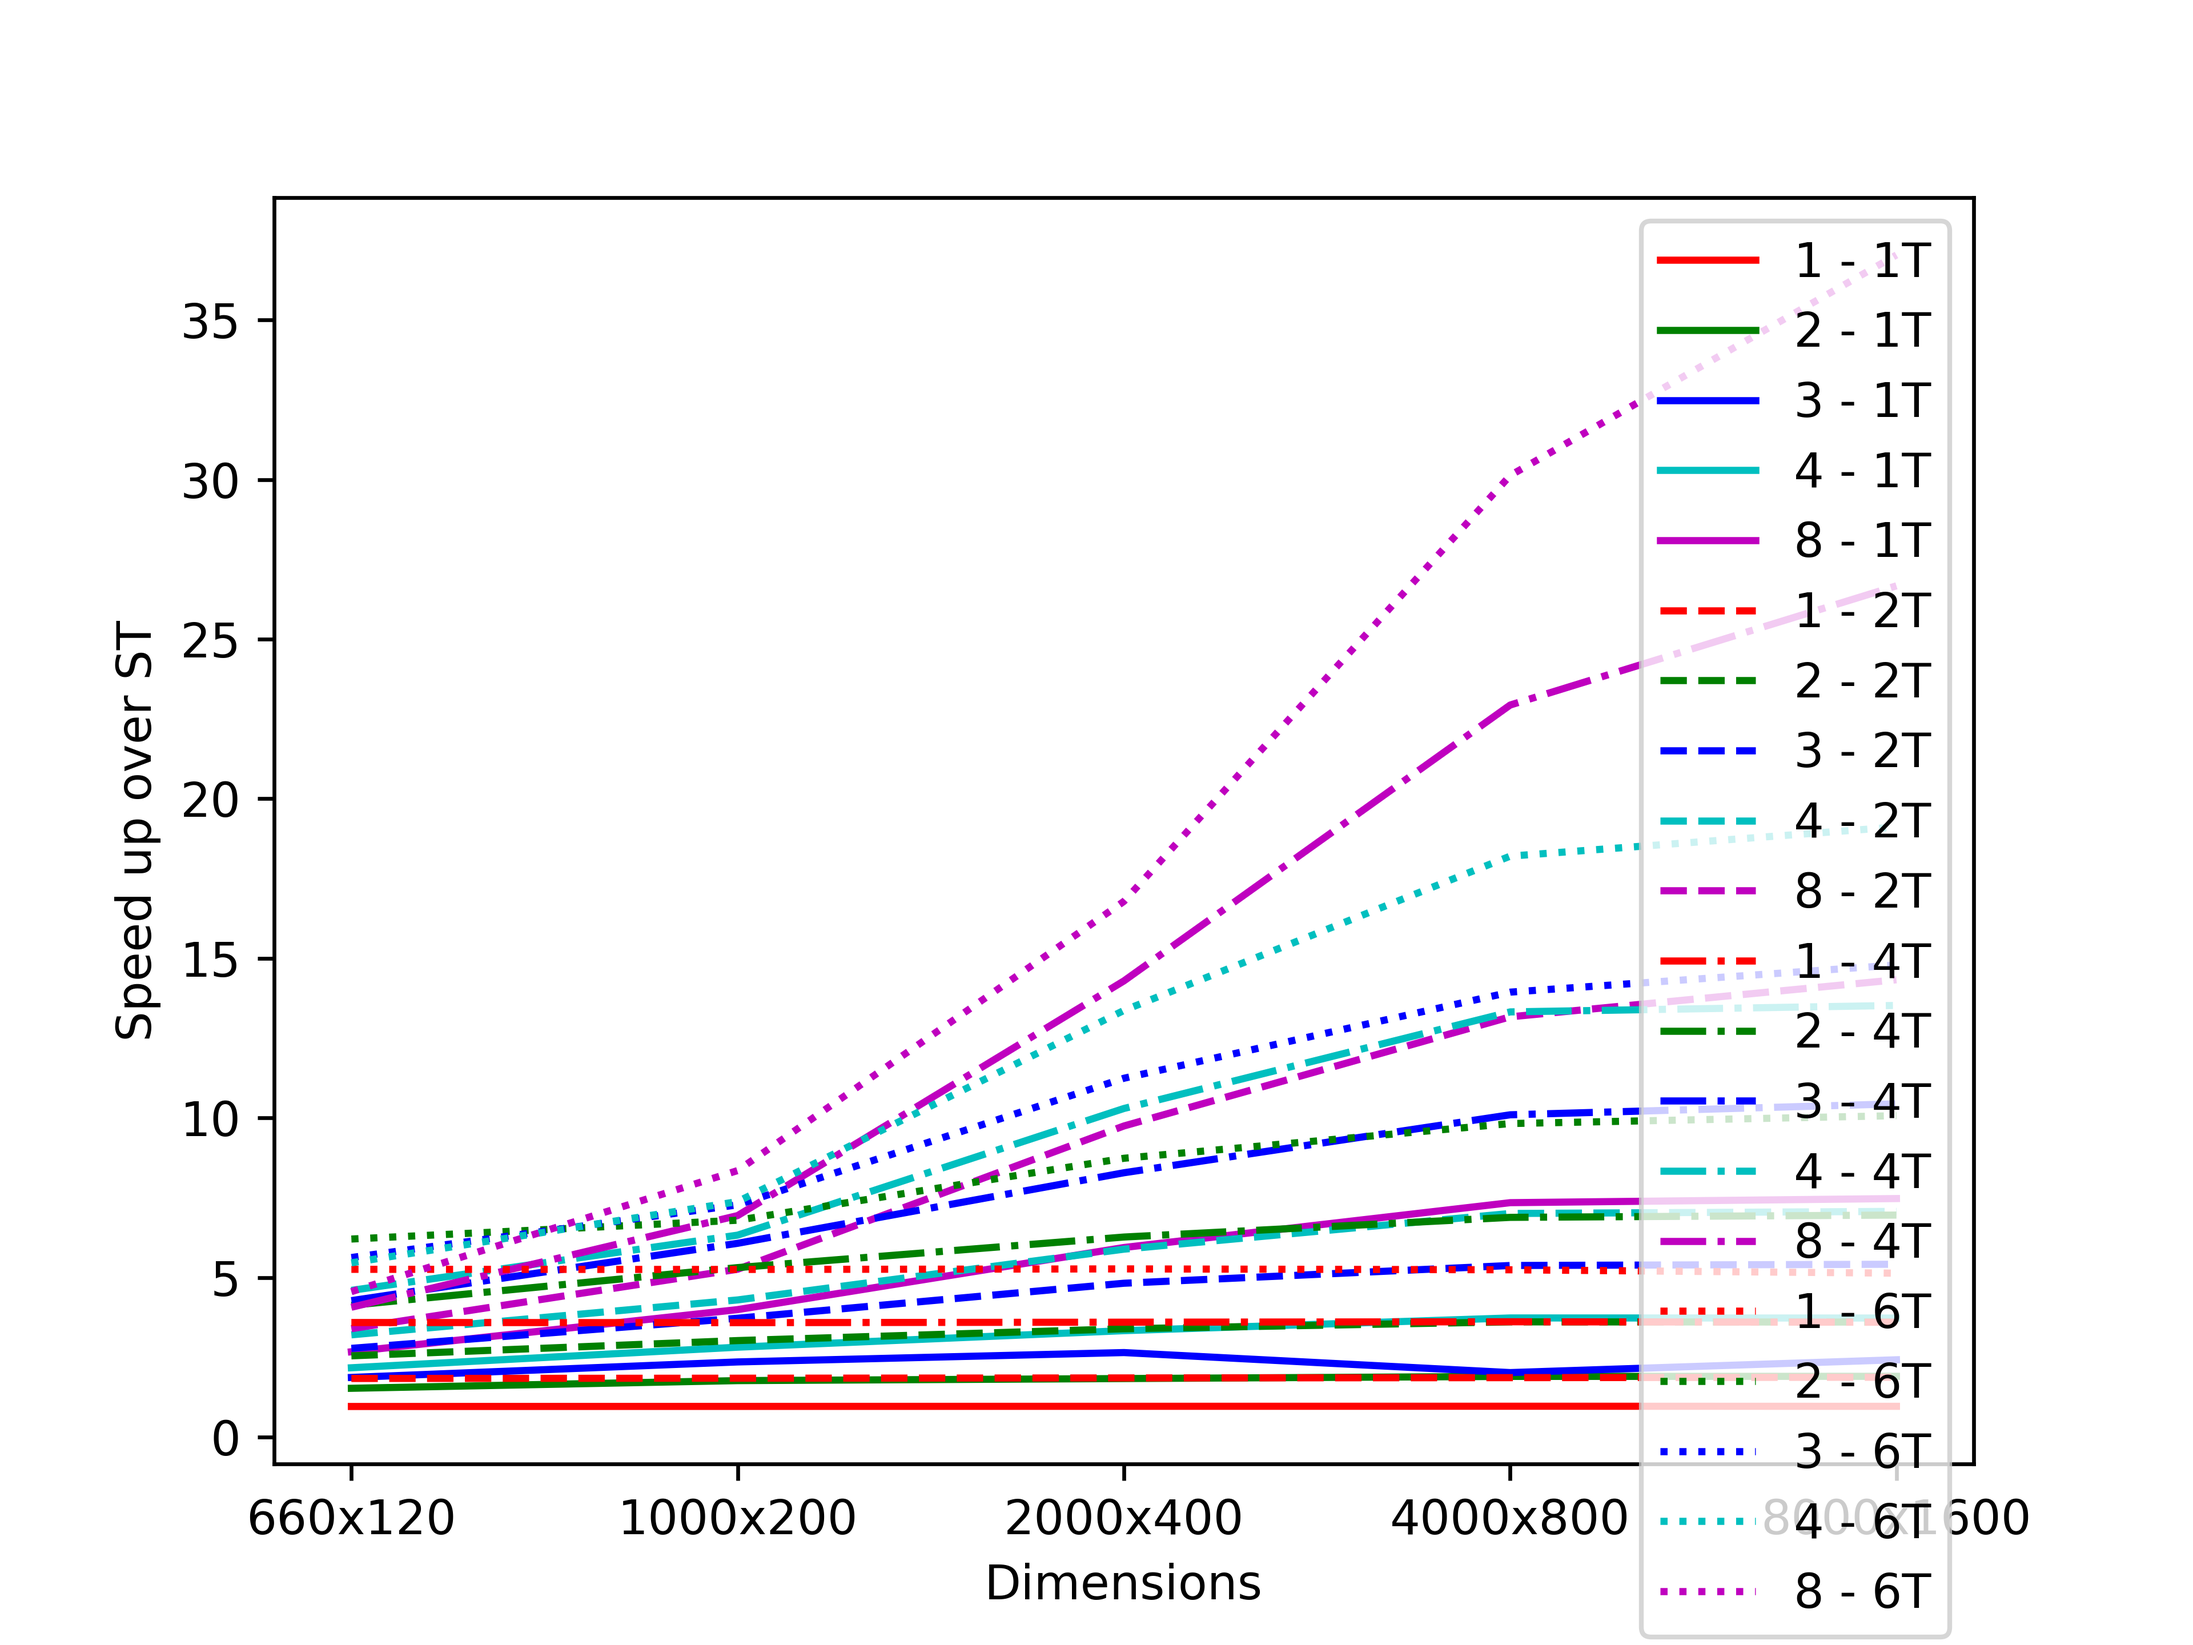
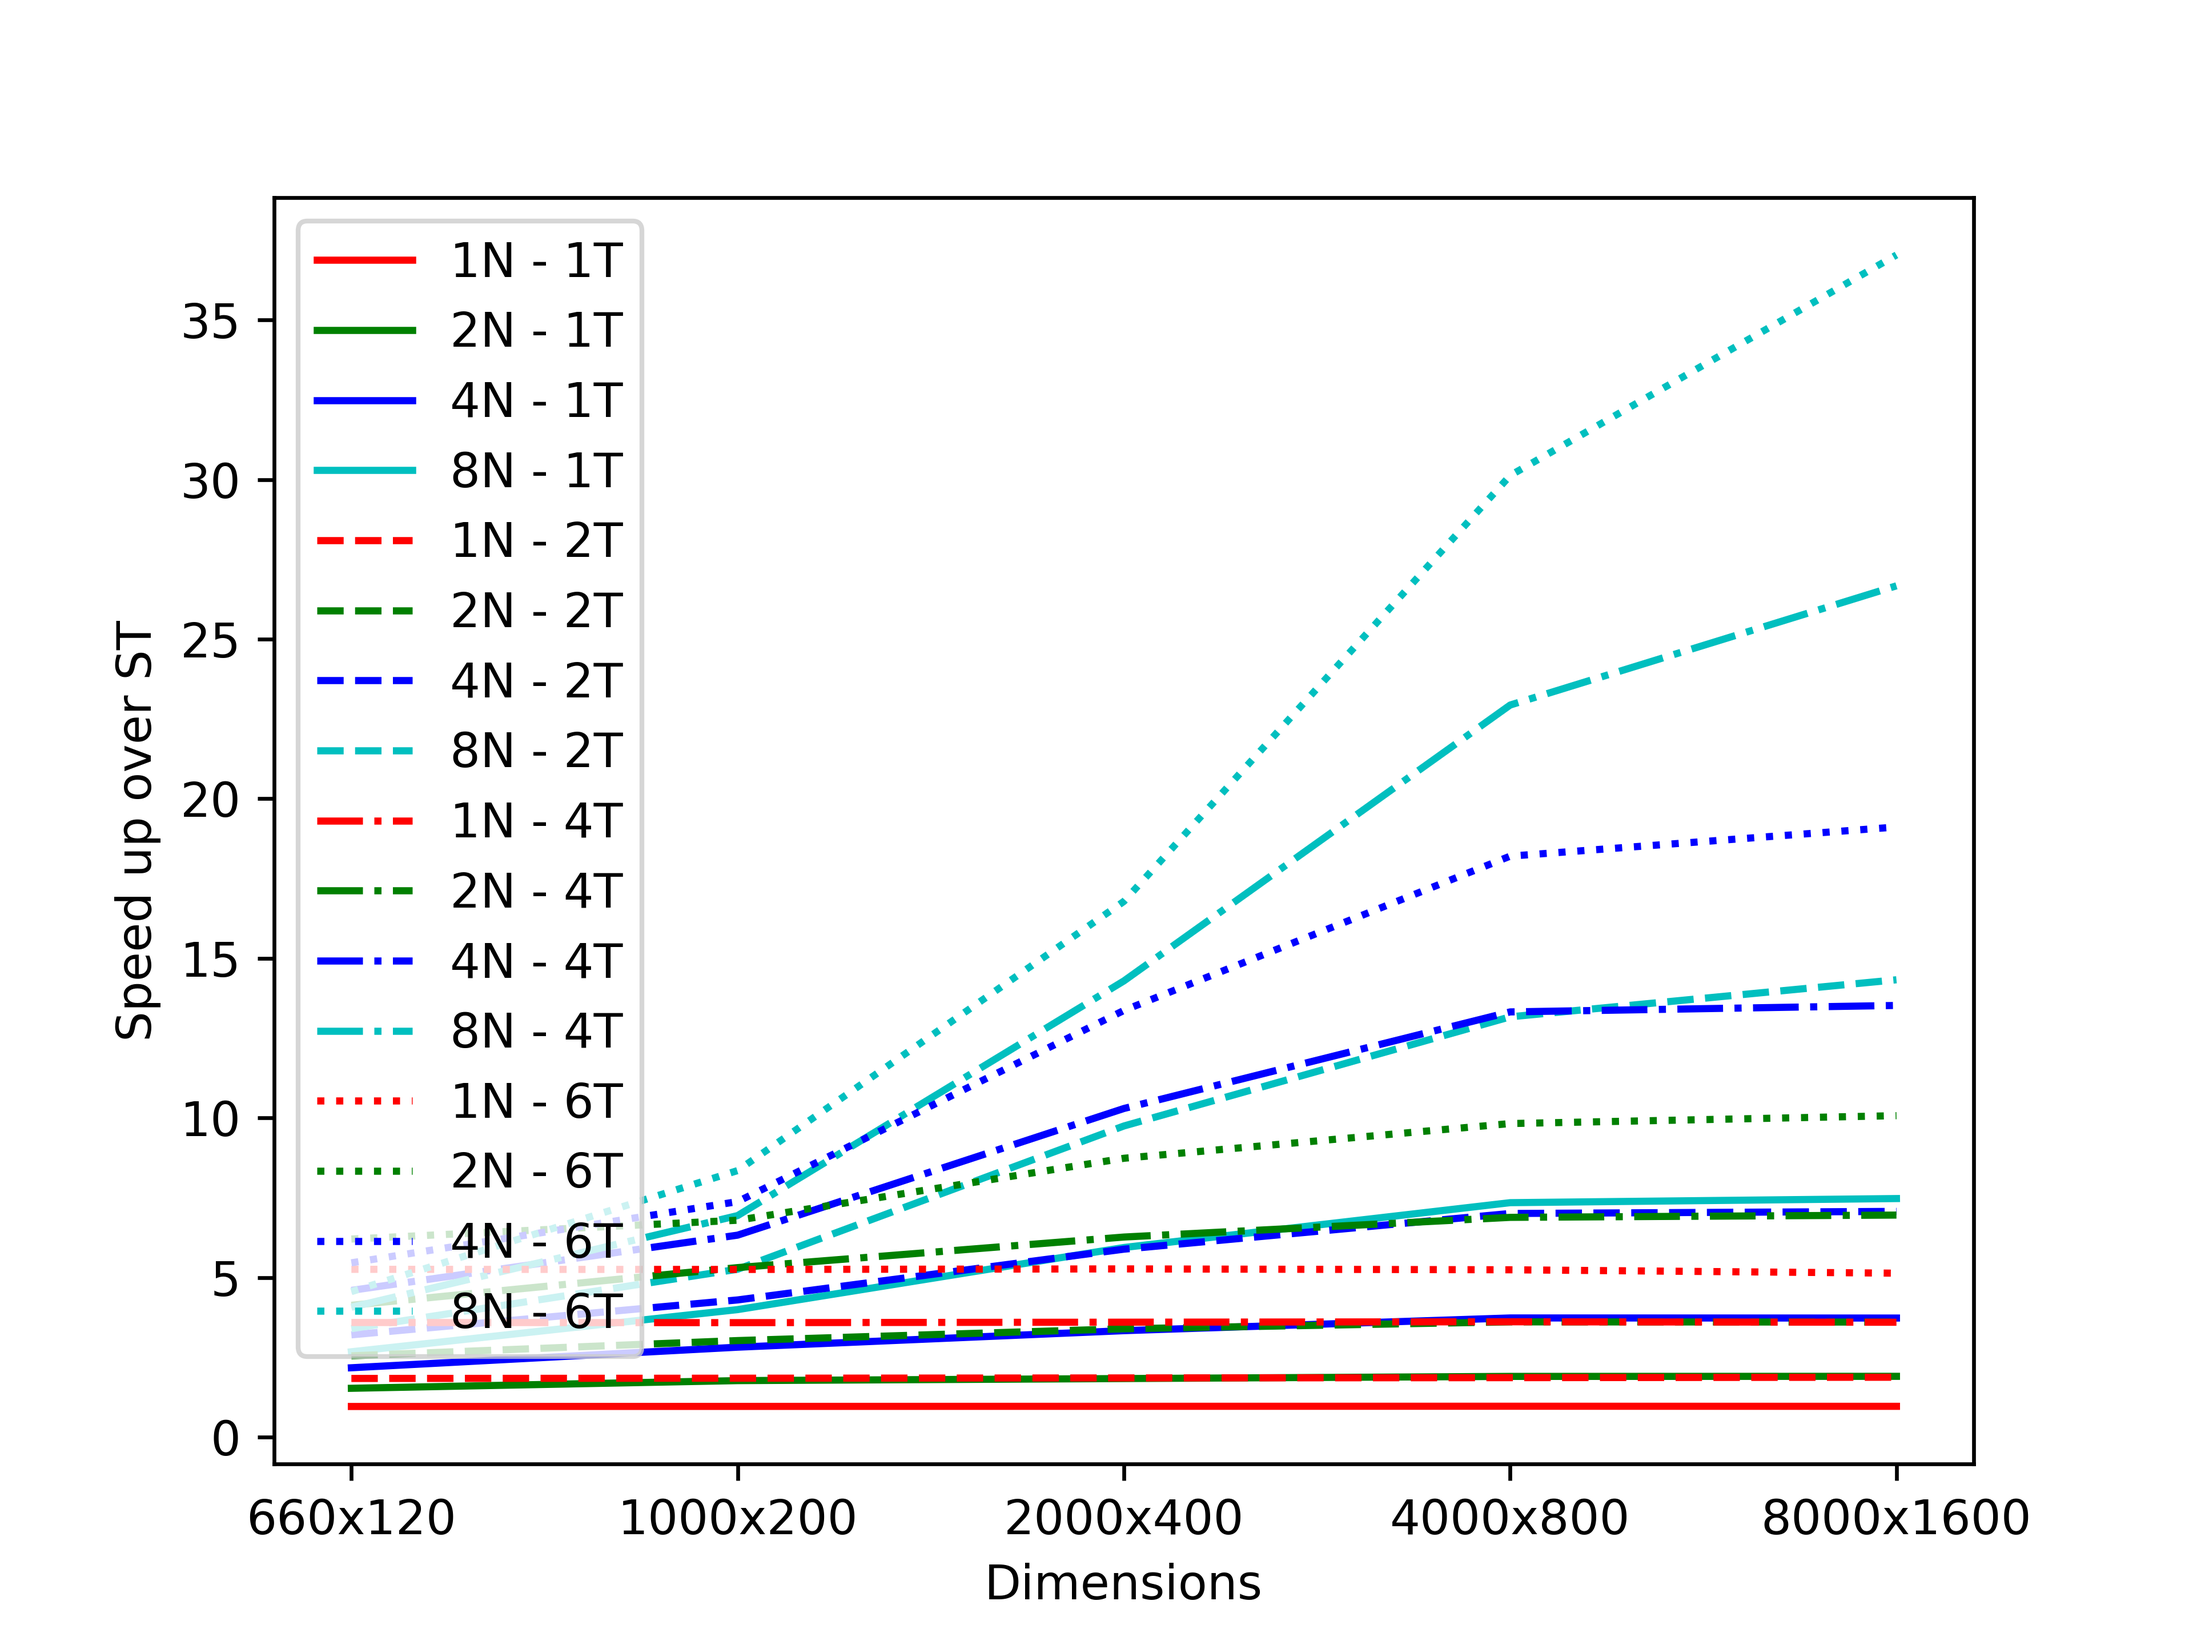
More plots

diff --git a/cfd/analysis.py b/cfd/analysis.py
@@ -12,6 +12,10 @@ pd.set_option('display.max_rows', None)
 dimensions = [(660, 120), (1000, 200), (2000, 400), (4000, 800), (8000, 1600)]
 sim_times = [0.5, 0.2, 0.05, 0.01, 0.004]
 omp_num_threads_tested = [1, 2, 3, 4, 5, 6]
+sbatch_nodes_tested = [1, 2, 3, 4, 8]
+
+omp_num_threads_plot = [1, 2, 4, 6]
+sbatch_nodes_plot = [1, 2, 4, 8]
 
 def get_time_from_timing_line(line):
     string_time = line.split(" ")[3]
@@ -160,7 +164,7 @@ def collect_data():
             st_runner.save_sbatch()
             runners.append(st_runner)
 
-        for sbatch_nodes in [1, 2, 3, 4, 8]:
+        for sbatch_nodes in sbatch_nodes_tested:
             for omp_num_threads in omp_num_threads_tested:
                 csv_path = os.path.join("timing_data", f"{x}-{y}-{sbatch_nodes}-{omp_num_threads}.csv")
                 if os.path.exists(csv_path):
@@ -214,6 +218,10 @@ def plot_graphs():
     plot_time_against_thread_count(all_df)
     plot_speed_up_against_thread_count(all_df)
     plot_speed_up_against_dimensions(all_df)
+    plot_speed_up_against_sbatch_nodes(all_df)
+    plot_parallel_efficiency_against_thread_count(all_df)
+    plot_parallel_efficiency_against_sbatch_nodes(all_df)
+    plot_parallel_efficiency_against_dimensions(all_df)
 
 def plot_time_against_thread_count(all_df):
     df = all_df.groupby(["sbatch_nodes", "omp_threads", "x", "y"], as_index=False).mean()
@@ -225,7 +233,7 @@ def plot_time_against_thread_count(all_df):
     for (x, y), line_style in zip(dimensions, line_styles):
         dim_df = df_par[df_par["x"] == x]
         dim_df = dim_df[dim_df["y"] == y]
-        for sbatch_nodes, colour in zip(dim_df["sbatch_nodes"].unique(), colours):
+        for sbatch_nodes, colour in zip(sbatch_nodes_plot, colours):
             node_df = dim_df[dim_df["sbatch_nodes"] == sbatch_nodes]
             plt.plot(node_df["omp_threads"], node_df["loop_time_taken"], colour + line_style, label=f"{sbatch_nodes} - {x}x{y}")
 
@@ -250,7 +258,7 @@ def plot_speed_up_against_thread_count(all_df):
         print(st_time_taken)
         dim_df = df_par[df_par["x"] == x]
         dim_df = dim_df[dim_df["y"] == y]
-        for sbatch_nodes, colour in zip(dim_df["sbatch_nodes"].unique(), colours):
+        for sbatch_nodes, colour in zip(sbatch_nodes_plot, colours):
             node_df = dim_df[dim_df["sbatch_nodes"] == sbatch_nodes]
             plt.plot(node_df["omp_threads"], st_time_taken / node_df["loop_time_taken"], colour + line_style, label=f"{sbatch_nodes} - {x}x{y}")
 
@@ -259,6 +267,31 @@ def plot_speed_up_against_thread_count(all_df):
     plt.xlabel("OMP Threads")
     plt.ylabel("Speed up over ST")
     plt.savefig("plots/speed_up_against_thread_count.png", dpi=600)
+    plt.clf()
+
+def plot_parallel_efficiency_against_thread_count(all_df):
+    df = all_df.groupby(["sbatch_nodes", "omp_threads", "x", "y"], as_index=False).mean()
+    df_par = df[df["omp_threads"] > 0]
+    df_st = df[df["omp_threads"] == 0]
+    # print(df)
+    colours = ["r", "g", "b", "c", "m", "k", "y"]
+    line_styles = ["-", "--", "-.", ":", ":"]
+    for (x, y), line_style in zip(dimensions, line_styles):
+        df_st_dim = df_st[df_st["x"] == x]
+        df_st_dim = df_st_dim[df_st_dim["y"] == y]
+        st_time_taken = df_st_dim["loop_time_taken"].iloc[0]
+        print(st_time_taken)
+        dim_df = df_par[df_par["x"] == x]
+        dim_df = dim_df[dim_df["y"] == y]
+        for sbatch_nodes, colour in zip(sbatch_nodes_plot, colours):
+            node_df = dim_df[dim_df["sbatch_nodes"] == sbatch_nodes]
+            plt.plot(node_df["omp_threads"], (st_time_taken / node_df["loop_time_taken"]) / (node_df["omp_threads"] * sbatch_nodes), colour + line_style, label=f"{sbatch_nodes} - {x}x{y}")
+
+    plt.legend()
+    plt.xticks(omp_num_threads_tested)
+    plt.xlabel("OMP Threads")
+    plt.ylabel("Parallel Eff vs ST")
+    plt.savefig("plots/parallel_efficiency_against_thread_count.png", dpi=600)
     plt.clf()
 
 def plot_speed_up_against_dimensions(all_df):
@@ -271,12 +304,12 @@ def plot_speed_up_against_dimensions(all_df):
     st_time_taken = np.array(df_st["loop_time_taken"])
     print(st_time_taken)
     fig, ax = plt.subplots(1,1)
-    for omp_threads, line_style in zip([1, 2, 4, 6], line_styles):
+    for omp_threads, line_style in zip(omp_num_threads_plot, line_styles):
         dim_df = df_par[df_par["omp_threads"] == omp_threads]
-        for sbatch_nodes, colour in zip(dim_df["sbatch_nodes"].unique(), colours):
+        for sbatch_nodes, colour in zip(sbatch_nodes_plot, colours):
             node_df = dim_df[dim_df["sbatch_nodes"] == sbatch_nodes]
             print(node_df["loop_time_taken"])
-            plt.plot(range(1, len(dimensions) + 1), st_time_taken / np.array(node_df["loop_time_taken"]), colour + line_style, label=f"{sbatch_nodes} - {omp_threads}T")
+            plt.plot(range(1, len(dimensions) + 1), st_time_taken / np.array(node_df["loop_time_taken"]), colour + line_style, label=f"{sbatch_nodes}N - {omp_threads}T")
 
     plt.legend()
     plt.xticks(range(1, len(dimensions) + 1))
@@ -286,8 +319,83 @@ def plot_speed_up_against_dimensions(all_df):
     plt.savefig("plots/speed_up_against_dimension.png", dpi=600)
     plt.clf()
 
+def plot_parallel_efficiency_against_dimensions(all_df):
+    df = all_df.groupby(["sbatch_nodes", "omp_threads", "x", "y"], as_index=False).mean()
+    df_par = df[df["omp_threads"] > 0]
+    df_st = df[df["omp_threads"] == 0]
+    # print(df)
+    colours = ["r", "g", "b", "c", "m", "k", "y"]
+    line_styles = ["-", "--", "-.", ":"]
+    st_time_taken = np.array(df_st["loop_time_taken"])
+    print(st_time_taken)
+    fig, ax = plt.subplots(1,1)
+    for omp_threads, line_style in zip(omp_num_threads_plot, line_styles):
+        dim_df = df_par[df_par["omp_threads"] == omp_threads]
+        for sbatch_nodes, colour in zip(sbatch_nodes_plot, colours):
+            node_df = dim_df[dim_df["sbatch_nodes"] == sbatch_nodes]
+            print(node_df["loop_time_taken"])
+            plt.plot(range(1, len(dimensions) + 1), (st_time_taken / np.array(node_df["loop_time_taken"])) / (sbatch_nodes * omp_threads), colour + line_style, label=f"{sbatch_nodes}N - {omp_threads}T")
+
+    plt.legend()
+    plt.xticks(range(1, len(dimensions) + 1))
+    ax.set_xticklabels([f"{x}x{y}" for (x,y) in dimensions])
+    plt.xlabel("Dimensions")
+    plt.ylabel("Parallel Eff vs ST")
+    plt.savefig("plots/parallel_efficiency_against_dimension.png", dpi=600)
+    plt.clf()
+
+def plot_speed_up_against_sbatch_nodes(all_df):
+    df = all_df.groupby(["sbatch_nodes", "omp_threads", "x", "y"], as_index=False).mean()
+    df_par = df[df["omp_threads"] > 0]
+    df_st = df[df["omp_threads"] == 0]
+    # print(df)
+    colours = ["r", "g", "b", "c", "m", "k", "y"]
+    line_styles = ["-", "--", "-.", ":", ":"]
+    for (x, y), line_style in zip(dimensions, line_styles):
+        df_st_dim = df_st[df_st["x"] == x]
+        df_st_dim = df_st_dim[df_st_dim["y"] == y]
+        st_time_taken = df_st_dim["loop_time_taken"].iloc[0]
+        print(st_time_taken)
+        dim_df = df_par[df_par["x"] == x]
+        dim_df = dim_df[dim_df["y"] == y]
+        for omp_threads, colour in zip(omp_num_threads_plot, colours):
+            node_df = dim_df[dim_df["omp_threads"] == omp_threads]
+            plt.plot(node_df["sbatch_nodes"], st_time_taken / node_df["loop_time_taken"], colour + line_style, label=f"{omp_threads}T - {x}x{y}")
+
+    plt.legend()
+    plt.xticks(omp_num_threads_tested)
+    plt.xlabel("Nodes")
+    plt.ylabel("Speed up over ST")
+    plt.savefig("plots/speed_up_against_sbatch_nodes.png", dpi=600)
+    plt.clf()
+
+def plot_parallel_efficiency_against_sbatch_nodes(all_df):
+    df = all_df.groupby(["sbatch_nodes", "omp_threads", "x", "y"], as_index=False).mean()
+    df_par = df[df["omp_threads"] > 0]
+    df_st = df[df["omp_threads"] == 0]
+    # print(df)
+    colours = ["r", "g", "b", "c", "m", "k", "y"]
+    line_styles = ["-", "--", "-.", ":", ":"]
+    for (x, y), line_style in zip(dimensions, line_styles):
+        df_st_dim = df_st[df_st["x"] == x]
+        df_st_dim = df_st_dim[df_st_dim["y"] == y]
+        st_time_taken = df_st_dim["loop_time_taken"].iloc[0]
+        print(st_time_taken)
+        dim_df = df_par[df_par["x"] == x]
+        dim_df = dim_df[dim_df["y"] == y]
+        for omp_threads, colour in zip(omp_num_threads_plot, colours):
+            node_df = dim_df[dim_df["omp_threads"] == omp_threads]
+            plt.plot(node_df["sbatch_nodes"], (st_time_taken / node_df["loop_time_taken"]) / (omp_threads * node_df["sbatch_nodes"]), colour + line_style, label=f"{omp_threads}T - {x}x{y}")
+
+    plt.legend()
+    plt.xticks(omp_num_threads_tested)
+    plt.xlabel("Nodes")
+    plt.ylabel("Parallel Eff vs ST")
+    plt.savefig("plots/parallel_efficiency_against_sbatch_nodes.png", dpi=600)
+    plt.clf()
+
 
 if __name__ == "__main__":
-    subprocess.run(["bash", "./clean_build.sh"])
-    collect_data()
+    # subprocess.run(["bash", "./clean_build.sh"])
+    # collect_data()
     plot_graphs()
